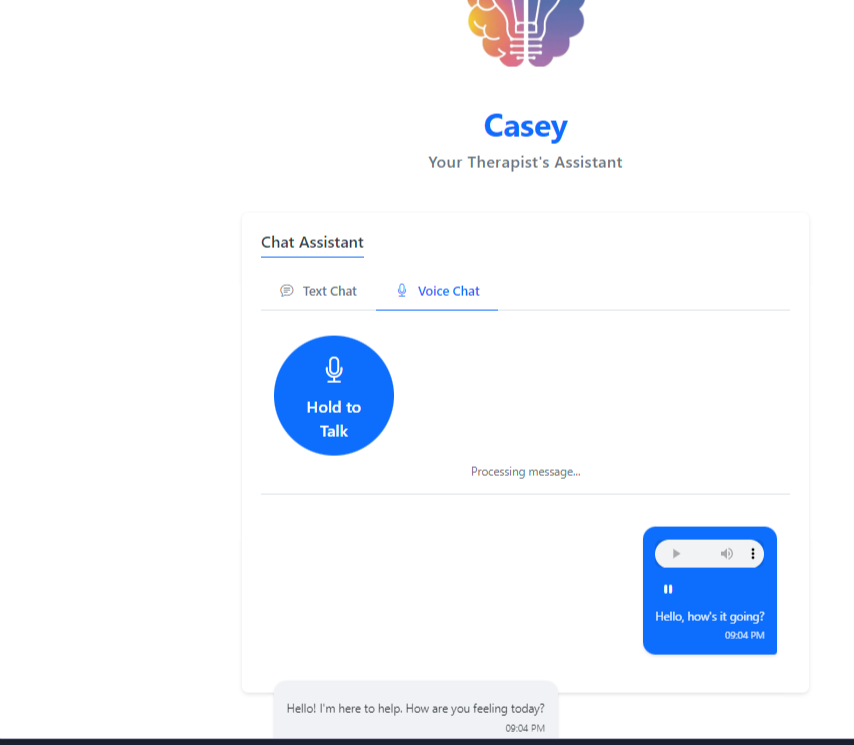
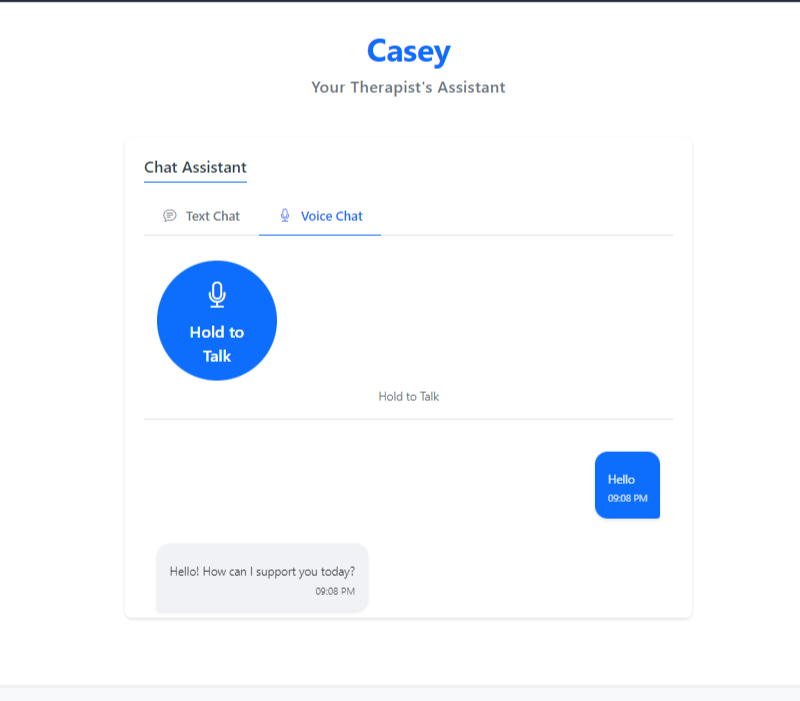
Agent query: Please verify if the voice chat is working with audio-only interaction: user can hold to talk, AI responds with voice only, and no text transcripts are displayed.

diff --git a/static/js/voice-chat.js b/static/js/voice-chat.js
@@ -53,7 +53,7 @@ document.addEventListener('DOMContentLoaded', function() {
         mediaRecorder.start();
         startTime = Date.now();
         recordButton.classList.add('recording');
-        statusText.textContent = 'Recording in progress...';
+        statusText.textContent = 'Recording...';
         recordingTimer = setInterval(updateRecordingTime, 1000);
     }
     
@@ -63,7 +63,7 @@ document.addEventListener('DOMContentLoaded', function() {
             mediaRecorder.stop();
             clearInterval(recordingTimer);
             recordButton.classList.remove('recording');
-            statusText.textContent = 'Processing your message...';
+            statusText.textContent = 'Processing...';
             recordingTime.textContent = '';
         }
     }
@@ -99,47 +99,25 @@ document.addEventListener('DOMContentLoaded', function() {
     }
     
     // Add voice message to chat
-    function addVoiceMessage(audioUrl, content, isAI) {
+    function addVoiceMessage(audioUrl, isAI) {
         const messageDiv = document.createElement('div');
         messageDiv.className = `voice-message ${isAI ? 'ai-message' : 'user-message'}`;
         
-        let messageContent = '';
-        
-        // Add transcript first for AI messages
-        if (isAI) {
-            messageContent += `<div class="voice-transcript">${content}</div>`;
-        }
-        
-        // Add audio player if URL is provided
         if (audioUrl) {
-            messageContent += `
+            messageDiv.innerHTML = `
                 <div class="audio-player-wrapper">
                     <audio src="${audioUrl}"></audio>
                     <div class="audio-controls">
                         <button class="btn btn-sm btn-${isAI ? 'secondary' : 'primary'} play-pause-btn">
                             <i class="bi bi-play-fill"></i>
                         </button>
-                        <div class="audio-progress">
-                            <div class="progress-bar"></div>
-                        </div>
                     </div>
-                </div>`;
-        }
-        
-        // Add transcript last for user messages
-        if (!isAI) {
-            messageContent += `<div class="voice-transcript">${content}</div>`;
-        }
-        
-        messageDiv.innerHTML = `
-            <div class="voice-message-content">
-                ${messageContent}
-            </div>
-            <div class="voice-message-timestamp">${new Date().toLocaleTimeString([], { hour: '2-digit', minute: '2-digit' })}</div>
-        `;
-        
-        // Setup audio controls if there's an audio element
-        if (audioUrl) {
+                </div>
+                <div class="voice-message-timestamp">
+                    ${new Date().toLocaleTimeString([], { hour: '2-digit', minute: '2-digit' })}
+                </div>
+            `;
+            
             const audio = messageDiv.querySelector('audio');
             const playPauseBtn = messageDiv.querySelector('.play-pause-btn');
             
@@ -171,7 +149,7 @@ document.addEventListener('DOMContentLoaded', function() {
         const formData = new FormData();
         formData.append('audio', audioBlob, 'voice-message.wav');
         
-        statusText.textContent = 'Processing message...';
+        statusText.textContent = 'Processing...';
         
         fetch('/voice-message', {
             method: 'POST',
@@ -180,17 +158,17 @@ document.addEventListener('DOMContentLoaded', function() {
         .then(response => response.json())
         .then(data => {
             if (data.success) {
-                // Add user's voice message
-                addVoiceMessage(null, data.transcript, false);
+                // Add user's recording indicator
+                addVoiceMessage(null, false);
                 
-                // Add AI's response with both text and audio
-                if (data.ai_response) {
-                    addVoiceMessage(data.ai_audio_url, data.ai_response, true);
+                // Add AI's audio response
+                if (data.ai_audio_url) {
+                    addVoiceMessage(data.ai_audio_url, true);
                 }
                 
                 statusText.textContent = 'Hold to Talk';
             } else {
-                statusText.textContent = data.error || 'Error processing voice message';
+                statusText.textContent = data.error || 'Error processing message';
                 setTimeout(() => {
                     statusText.textContent = 'Hold to Talk';
                 }, 3000);
@@ -198,7 +176,7 @@ document.addEventListener('DOMContentLoaded', function() {
         })
         .catch(error => {
             console.error('Error sending voice message:', error);
-            statusText.textContent = 'Error sending voice message';
+            statusText.textContent = 'Error sending message';
             setTimeout(() => {
                 statusText.textContent = 'Hold to Talk';
             }, 3000);

diff --git a/templates/dashboard/client.html b/templates/dashboard/client.html
@@ -19,21 +19,41 @@
                     <!-- Tabs -->
                     <ul class="nav nav-tabs mb-3" id="chatTabs" role="tablist">
                         <li class="nav-item" role="presentation">
-                            <button class="nav-link active" id="text-tab" data-bs-toggle="tab" data-bs-target="#text-chat" type="button" role="tab" aria-controls="text-chat" aria-selected="true">
-                                <i class="bi bi-chat-text"></i> Text Chat
+                            <button class="nav-link active" id="voice-tab" data-bs-toggle="tab" data-bs-target="#voice-chat" type="button" role="tab" aria-controls="voice-chat" aria-selected="true">
+                                <i class="bi bi-mic"></i> Voice Chat
                             </button>
                         </li>
                         <li class="nav-item" role="presentation">
-                            <button class="nav-link" id="voice-tab" data-bs-toggle="tab" data-bs-target="#voice-chat" type="button" role="tab" aria-controls="voice-chat" aria-selected="false">
-                                <i class="bi bi-mic"></i> Voice Chat
+                            <button class="nav-link" id="text-tab" data-bs-toggle="tab" data-bs-target="#text-chat" type="button" role="tab" aria-controls="text-chat" aria-selected="false">
+                                <i class="bi bi-chat-text"></i> Text Chat
                             </button>
                         </li>
                     </ul>
 
                     <!-- Tab Content -->
                     <div class="tab-content" id="chatTabsContent">
+                        <!-- Voice Chat Tab -->
+                        <div class="tab-pane fade show active" id="voice-chat" role="tabpanel" aria-labelledby="voice-tab">
+                            <div class="voice-chat-container">
+                                <div class="voice-controls text-center mb-4">
+                                    <button id="recordButton" class="btn btn-lg btn-record" title="Hold to talk">
+                                        <i class="bi bi-mic"></i>
+                                        <span class="record-text">Hold to Talk</span>
+                                    </button>
+                                    <div id="recordingStatus" class="recording-status mt-2">
+                                        <span class="status-text">Hold to Talk</span>
+                                        <span class="recording-time"></span>
+                                    </div>
+                                </div>
+                                
+                                <div class="voice-messages" id="voice-messages">
+                                    <!-- Voice messages will be added here dynamically -->
+                                </div>
+                            </div>
+                        </div>
+
                         <!-- Text Chat Tab -->
-                        <div class="tab-pane fade show active" id="text-chat" role="tabpanel" aria-labelledby="text-tab">
+                        <div class="tab-pane fade" id="text-chat" role="tabpanel" aria-labelledby="text-tab">
                             <div class="chat-messages" id="chat-messages">
                                 {% for message in messages %}
                                 <div class="message {% if message.is_ai_response %}ai-message{% else %}user-message{% endif %}">
@@ -55,26 +75,6 @@
                                     </button>
                                 </div>
                             </form>
-                        </div>
-
-                        <!-- Voice Chat Tab -->
-                        <div class="tab-pane fade" id="voice-chat" role="tabpanel" aria-labelledby="voice-tab">
-                            <div class="voice-chat-container">
-                                <div class="voice-controls text-center mb-4">
-                                    <button id="recordButton" class="btn btn-lg btn-record" title="Hold to talk">
-                                        <i class="bi bi-mic"></i>
-                                        <span class="record-text">Hold to Talk</span>
-                                    </button>
-                                    <div id="recordingStatus" class="recording-status mt-2">
-                                        <span class="status-text">Hold the button to start talking</span>
-                                        <span class="recording-time"></span>
-                                    </div>
-                                </div>
-                                
-                                <div class="voice-messages" id="voice-messages">
-                                    <!-- Voice messages will be added here dynamically -->
-                                </div>
-                            </div>
                         </div>
                     </div>
                 </div>

diff --git a/chat_service.py b/chat_service.py
@@ -32,14 +32,6 @@ class ChatService:
             chat_message.content = ai_message
             
             db.session.add(chat_message)
-            
-            # Log the interaction (maintaining audit trail)
-            audit_log = AuditLog()
-            audit_log.user_id = user.id
-            audit_log.action = 'ai_chat_response'
-            audit_log.details = json.dumps({'message_id': chat_message.id})
-            
-            db.session.add(audit_log)
             db.session.commit()
             
             return ai_message
@@ -104,14 +96,12 @@ class ChatService:
                 f.write(audio_data)
             
             try:
-                # Use OpenAI's Audio API for speech-to-text
+                # Use OpenAI's Audio API for speech-to-text (internal use only)
                 with open(temp_path, 'rb') as audio_file:
                     transcript = self.client.audio.transcriptions.create(
                         model="whisper-1",
                         file=audio_file
                     )
-                    
-                current_app.logger.info(f"Speech recognition successful: {transcript.text}")
                 
                 # Save user message
                 user_message = ChatMessage()
@@ -125,25 +115,18 @@ class ChatService:
                 current_app.logger.info("Getting AI response")
                 ai_response = self.get_ai_response(transcript.text, user)
                 
-                # Generate audio response with retries
+                # Generate audio response
                 current_app.logger.info("Generating audio response")
                 audio_file_path = self.generate_audio_response(ai_response)
                 
-                # If audio generation fails, log the error but still return the text response
                 if not audio_file_path:
-                    current_app.logger.error("Failed to generate audio response")
                     return {
-                        'success': True,
-                        'transcript': transcript.text,
-                        'ai_response': ai_response,
-                        'ai_audio_url': None,
-                        'error_message': 'Audio response generation failed'
+                        'success': False,
+                        'error': 'Failed to generate audio response'
                     }
                 
                 return {
                     'success': True,
-                    'transcript': transcript.text,
-                    'ai_response': ai_response,
                     'ai_audio_url': audio_file_path
                 }
                 
@@ -159,5 +142,5 @@ class ChatService:
             current_app.logger.error(f"Error processing voice message: {str(e)}\n{traceback.format_exc()}")
             return {
                 'success': False,
-                'error': str(e) if str(e) != '' else 'Failed to process voice message'
+                'error': 'Failed to process voice message'
             }
